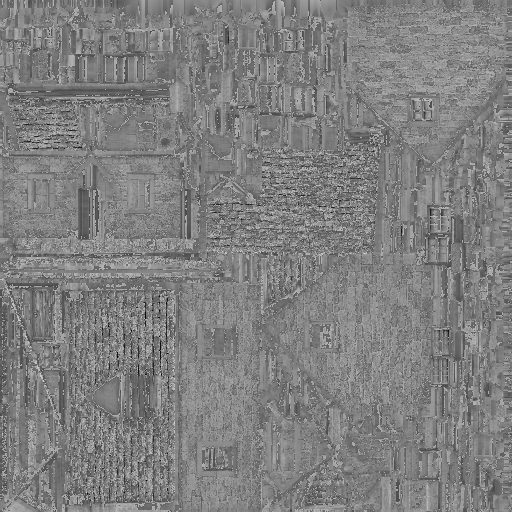
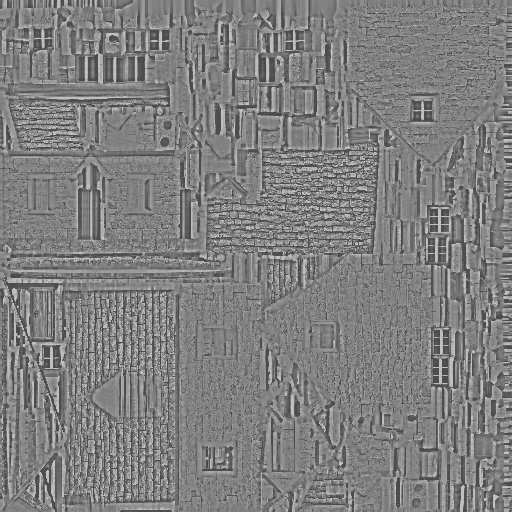
feat(look): the houses turned and clustered, the paving's level of detail, the windmill cleaner
The houses each a quarter turn of its own and a little more, an
irregular cluster of six in the village, their paved yards at least
4 m apart (PAVE_GAP: the cover's authoring checks it, pavePoly and
polyGap; test/buildings.test.ts). The paving's cobbles fade out from a
7 cm to a 22 cm pixel footprint into their mean in a soft blotch, no
texture read past it, as the macro bake paints. The buildings' specks
on flat faces near the light's grazing angle: the sun's shadow looked
up 15 cm off the surface, the band edges' grain at a third; the detail
texture over its local mean (a texel's guessed role flipped on the
windmill's tower); the tower's wall warmer, to the reference's ochre.

diff --git a/src/look/world/buildings.ts b/src/look/world/buildings.ts
@@ -1,27 +1,29 @@
 // The demo map's buildings (docs/plans/active/buildings.md): authored, deterministic. Each a model of
 // prototypes/buildings.data.js (tools/building-to-js.py: metres, its base at 0, centred on its footprint), where it
 // stands (x, z), its turn (yaw, rad, Babylon's instance yaw: a local point (x, z) goes to (x cos − z sin, x sin + z cos),
-// measured on the page), its scale. The models' fronts face −z before the turn, so a yaw of −π/2 faces −x: the
-// village's houses face the road west of them
+// measured on the page), its scale. The models' fronts (the house's door) face −z before the turn, so a yaw of −π/2
+// faces −x (the road, west of the village)
 export interface Building { model: 'windmill' | 'house'; x: number; z: number; yaw: number; scale: number }
 // each model's ground footprint before its scale: a circle's radius (the windmill's tower and gallery) or a box's half
 // sizes along its own x and z (the house's walls, its eaves), m: the cover's village ground under it (cover.ts), so
 // nothing grows through a floor
 export const FOOT: Record<Building['model'], { r?: number; hx?: number; hz?: number }> = { windmill: { r: 4.4 }, house: { hx: 5.6, hz: 4.4 } }
-const W = -Math.PI / 2
+const Q = Math.PI / 2   // a quarter turn: 0 the door south (−z), −Q west (to the road), Q east, 2Q north
 export const BUILDINGS: readonly Building[] = [
   // the windmill in the large wheat field's north-east part (cover.ts: rect(50, 48, 45, 28, 0.1)), its sails to the
   // south-west, toward the start view
   { model: 'windmill', x: 78, z: 66, yaw: 0.6, scale: 1 },
-  // the village's houses east of the road (cover.ts, VILLAGE), in three rows along it, each turned a little apart
-  { model: 'house', x: 207, z: -28, yaw: W + 0.12, scale: 1.0 },
-  { model: 'house', x: 206, z: -6, yaw: W - 0.08, scale: 0.92 },
-  { model: 'house', x: 208, z: 15, yaw: W + 0.2, scale: 1.06 },
-  { model: 'house', x: 226, z: -34, yaw: W - 0.18, scale: 0.95 },
-  { model: 'house', x: 227, z: -12, yaw: W + 0.05, scale: 1.08 },
-  { model: 'house', x: 229, z: 9, yaw: W - 0.25, scale: 0.9 },
-  { model: 'house', x: 244, z: -24, yaw: W + 0.26, scale: 1.0 },
+  // the village (cover.ts, VILLAGE): an irregular cluster east of the road, the houses turned each a quarter turn of its
+  // own (two doors to the road, one gable to it, two side-on, one back to it) and a little more, their paved yards at
+  // least PAVE_GAP apart (cover.ts checks it); six fit the village ground with their yards
+  { model: 'house', x: 208, z: -30, yaw: -Q + 0.14, scale: 1.0 },
+  { model: 'house', x: 232, z: -38, yaw: -0.12, scale: 0.95 },
+  { model: 'house', x: 214, z: -6, yaw: 2 * Q + 0.1, scale: 1.04 },
+  { model: 'house', x: 240, z: -12, yaw: Q - 0.18, scale: 0.92 },
+  { model: 'house', x: 212, z: 20, yaw: -Q - 0.2, scale: 1.0 },
+  { model: 'house', x: 240, z: 18, yaw: 2 * Q + 0.16, scale: 1.06 },
 ]
+export const PAVE_GAP = 4   // the least ground between two buildings' paved yards, m
 // whether (x, z) lies on a building's footprint, grown by pad m
 export function onBuilding(x: number, z: number, pad = 0): boolean {
   return BUILDINGS.some(b => {
@@ -54,5 +56,28 @@ export function onPaving(x: number, z: number, pad = 0): boolean {
     const lx = dx * a[2] + dz * a[3], lz = -dx * a[3] + dz * a[2]
     return Math.abs(lx) <= q[0] + pad && lz <= q[1] + pad && lz >= -q[2] - pad
   })
+}
+// a building's paving as a polygon on the ground (a box's four corners, a circle's sixteen points), in its turn
+export function pavePoly(b: Building): [number, number][] {
+  const { a, b: q } = paveShape(b), at = (lx: number, lz: number): [number, number] => [a[0] + lx * a[2] - lz * a[3], a[1] + lx * a[3] + lz * a[2]]
+  if (q[0] < 0) return Array.from({ length: 16 }, (_, k) => at(Math.cos(k * Math.PI / 8) * -q[0], Math.sin(k * Math.PI / 8) * -q[0]))
+  return [at(-q[0], -q[2]), at(q[0], -q[2]), at(q[0], q[1]), at(-q[0], q[1])]
+}
+// the gap between two convex polygons, m: 0 where they overlap (a point of one in the other), else the least distance
+// between their edges
+export function polyGap(p: [number, number][], q: [number, number][]): number {
+  const inside = (pt: [number, number], poly: [number, number][]) => poly.every((v, i) => { const w = poly[(i + 1) % poly.length]; return (w[0] - v[0]) * (pt[1] - v[1]) - (w[1] - v[1]) * (pt[0] - v[0]) >= 0 })
+    || poly.every((v, i) => { const w = poly[(i + 1) % poly.length]; return (w[0] - v[0]) * (pt[1] - v[1]) - (w[1] - v[1]) * (pt[0] - v[0]) <= 0 })
+  if (p.some(v => inside(v, q)) || q.some(v => inside(v, p))) return 0
+  // (two boxes crossing as a plus: no corner of one in the other, but their edges cross)
+  const side = (a: [number, number], b: [number, number], c: [number, number]) => Math.sign((b[0] - a[0]) * (c[1] - a[1]) - (b[1] - a[1]) * (c[0] - a[0]))
+  for (let i = 0; i < p.length; i++) for (let j = 0; j < q.length; j++) {
+    const a = p[i], b = p[(i + 1) % p.length], c = q[j], e = q[(j + 1) % q.length]
+    if (side(a, b, c) !== side(a, b, e) && side(c, e, a) !== side(c, e, b)) return 0
+  }
+  const segPt = (x: number, z: number, a: [number, number], b: [number, number]) => { const dx = b[0] - a[0], dz = b[1] - a[1], t = Math.max(0, Math.min(1, ((x - a[0]) * dx + (z - a[1]) * dz) / (dx * dx + dz * dz))); return Math.hypot(x - a[0] - t * dx, z - a[1] - t * dz) }
+  let d = Infinity
+  for (const [P, Q] of [[p, q], [q, p]]) for (const v of P) for (let i = 0; i < Q.length; i++) d = Math.min(d, segPt(v[0], v[1], Q[i], Q[(i + 1) % Q.length]))
+  return d
 }
 

diff --git a/src/look/world/cover.ts b/src/look/world/cover.ts
@@ -11,7 +11,7 @@
 import { hash, sstep, vn } from '../noise.ts'
 import { axisX } from './author.ts'
 import { RIVER } from '../river.ts'
-import { BUILDINGS, PAVE_WOBBLE, onPaving, paveShape } from './buildings.ts'
+import { BUILDINGS, PAVE_GAP, PAVE_WOBBLE, onPaving, paveShape, pavePoly, polyGap } from './buildings.ts'
 
 export const COVER = { meadow: 0, pasture: 1, wood: 2, road: 3, track: 4, village: 5, wheat: 6, green: 7, stubble: 8, ploughed: 9, bare: 10 } as const
 export type CoverClass = typeof COVER[keyof typeof COVER]
@@ -143,7 +143,13 @@ export function authorCover(far: number, cell: number): CoverGrid {
   const n = Math.round(far / cell), x0 = -far / 2, z0 = -far / 2, tex = new Uint8Array(n * n * 4)
   for (const f of FIELDS) for (const [x, z] of f.poly) if (onFloodplain(x, z)) throw new Error(`cover: field corner ${x.toFixed(0)},${z.toFixed(0)} on the floodplain`)
   for (const [x, z] of VILLAGE) if (inFormationZone(x, z) || onFloodplain(x, z)) throw new Error('cover: the village is in a formation zone or on the floodplain')
-  // the buildings (world/buildings.ts): none in a formation zone, on the floodplain, or on a road or a track
+  // the buildings (world/buildings.ts): their paved yards at least PAVE_GAP apart; none in a formation zone, on the
+  // floodplain, or on a road or a track
+  const yards = BUILDINGS.map(pavePoly)
+  for (let i = 0; i < yards.length; i++) for (let j = i + 1; j < yards.length; j++) {
+    const g = polyGap(yards[i], yards[j])
+    if (g < PAVE_GAP) throw new Error(`cover: the yards of the buildings at ${BUILDINGS[i].x}, ${BUILDINGS[i].z} and ${BUILDINGS[j].x}, ${BUILDINGS[j].z} are ${g.toFixed(1)} m apart (at least ${PAVE_GAP})`)
+  }
   for (const b of BUILDINGS) {
     // (its paving's farthest reach and its wobble)
     const q = paveShape(b).b, r = (q[0] < 0 ? -q[0] : Math.hypot(q[0], Math.max(q[1], q[2]))) + PAVE_WOBBLE

diff --git a/test/buildings.test.ts b/test/buildings.test.ts
@@ -1,0 +1,20 @@
+// The buildings' placement (docs/plans/active/buildings.md): the gap between two paved yards (convex polygons) is 0
+// where they overlap or cross and the edges' least distance otherwise, and the authored buildings' yards keep at least
+// PAVE_GAP apart (the cover's authoring fails otherwise: src/look/world/cover.ts)
+import { describe, expect, it } from 'vitest'
+import { BUILDINGS, PAVE_GAP, pavePoly, polyGap } from '../src/look/world/buildings.ts'
+
+const box = (x: number, z: number, hx: number, hz: number): [number, number][] => [[x - hx, z - hz], [x + hx, z - hz], [x + hx, z + hz], [x - hx, z + hz]]
+
+describe('the yards', () => {
+  it('measures the gap between two yards', () => {
+    expect(polyGap(box(0, 0, 2, 2), box(1, 1, 2, 2))).toBe(0)        // a corner of one in the other
+    expect(polyGap(box(0, 0, 5, 1), box(0, 0, 1, 5))).toBe(0)        // crossing as a plus: no corner in the other
+    expect(polyGap(box(0, 0, 2, 2), box(10, 0, 2, 2))).toBeCloseTo(6)
+    expect(polyGap(box(0, 0, 2, 2), box(5, 5, 1, 1))).toBeCloseTo(Math.hypot(2, 2))
+  })
+  it('keeps the authored yards apart', () => {
+    const p = BUILDINGS.map(pavePoly)
+    for (let i = 0; i < p.length; i++) for (let j = i + 1; j < p.length; j++) expect(polyGap(p[i], p[j])).toBeGreaterThanOrEqual(PAVE_GAP)
+  })
+})

diff --git a/src/look/buildings.ts b/src/look/buildings.ts
@@ -25,7 +25,7 @@ declare global { interface Window { BUILDINGS?: Record<string, BuildingModel> } 
 // against the armies (readable first: the guard): the windmill's warm ochre stone and red cap, the cottages' pale
 // limestone and blue-grey slate, timber a dark brown, the openings near black, the chimney pots terracotta
 const PALETTE: Record<Building['model'], { wall: string; roof: string; timber: string; opening: string; accent: string; detail: string }> = {
-  windmill: { wall: '#b8915e', roof: '#9a4a32', timber: '#5e4330', opening: '#1f1a17', accent: '#9a4a32', detail: WINDMILL_DETAIL },
+  windmill: { wall: '#bd8247', roof: '#9a4a32', timber: '#5e4330', opening: '#1f1a17', accent: '#9a4a32', detail: WINDMILL_DETAIL },
   house: { wall: '#cbbfa6', roof: '#5d636b', timber: '#64472f', opening: '#1c1c1e', accent: '#a5643f', detail: HOUSE_DETAIL },
 }
 const DETAIL_AMT = 0.35   // how much of the texture's value shows (the paint's grain is on top)

diff --git a/tools/building-to-js.py b/tools/building-to-js.py
@@ -4,7 +4,7 @@
 # data/buildings/<model>-detail.png. Pack colours are never used (AGENTS.md): each face takes a role (wall, roof,
 # timber, opening, accent) by the median colour of the texels under it, nearest in Lab to the model's reference colours
 # (MODELS, below); the page paints each role from the palette. The detail keeps the texture's value only, each texel
-# divided by its role's mean value (so it varies about 1 within a role), stored as 128 = 1.
+# over its neighbourhood's mean (so it varies about 1: the fine courses and slates), stored as 128 = 1.
 #
 # Usage (from rts/; the zips are the owner's, in the git-ignored assets/buildings):
 #   blender -b --python tools/building-to-js.py -- windmill assets/buildings/windmill.zip
@@ -36,6 +36,7 @@ MODELS = {
 # 'up': per role the range of a face's normal's upward component it may take (a roof faces up, a wall stands): the
 # colours alone do not split a shaded wall from a slate or a lit beam from a wall stone; 'zr': the range of a face's
 # height, as a share of the model's, a role may take (the house's terracotta chimney pots: its frames are timber)
+DETAIL_BOX, DETAIL_CLIP = 4, (0.6, 1.5)   # the detail's local mean: a 9-texel box at 512²; its range
 REPO = os.path.abspath(os.path.join(os.path.dirname(__file__), '..'))
 
 def srgb_to_lab(c):   # c: (..., 3) in 0..1
@@ -124,11 +125,14 @@ def main():
     p3 = np.array(pos).reshape(-1, 3)
     data = {'pos': pos, 'nrm': nrm, 'uv': uvs, 'role': rol, 'idx': idx, 'min': p3.min(0).round(3).tolist(), 'max': p3.max(0).round(3).tolist()}
     print(name, 'verts', len(rol), 'tris', len(idx) // 3, 'size m', (p3.max(0) - p3.min(0)).round(2).tolist())
-    # the detail: the texture's value, each texel over its role's mean value (the texel's role by the same rule)
+    # the detail: the texture's value over its local mean (a box of DETAIL_BOX texels round it), so only the fine
+    # value (stone courses, slates, planks) is kept, whatever the region: a texel's role guessed by its colour flipped
+    # between neighbours on the windmill's brown tower (mortar read as timber) and blotched it. Clipped to DETAIL_CLIP
     st = max(1, w // 512); small = px[::st, ::st]; sh_, sw_ = small.shape[:2]   # (512² is enough for a value detail)
-    tr = classify(small.reshape(-1, 3).astype(np.float64), cfg['refs']).reshape(sh_, sw_)
-    val = small @ np.array([0.2126, 0.7152, 0.0722]); det = np.ones_like(val)
-    for r in np.unique(tr): m_ = val[tr == r].mean(); det[tr == r] = val[tr == r] / max(m_, 1e-3)
+    val = small @ np.array([0.2126, 0.7152, 0.0722])
+    k_ = DETAIL_BOX; pad = np.pad(val, k_, mode='edge'); c_ = pad.cumsum(0).cumsum(1); c_ = np.pad(c_, ((1, 0), (1, 0)))
+    n_ = 2 * k_ + 1; loc = (c_[n_:, n_:] - c_[:-n_, n_:] - c_[n_:, :-n_] + c_[:-n_, :-n_]) / (n_ * n_)
+    det = np.clip(val / np.maximum(loc, 1e-3), *DETAIL_CLIP)
     det8 = np.clip(det * 128, 0, 255).astype(np.uint8)
     out_dir = os.path.join(REPO, 'data', 'buildings'); os.makedirs(out_dir, exist_ok=True)
     im = bpy.data.images.new(name + '-detail', sw_, sh_, alpha=False); g = det8.astype(np.float32) / 255

diff --git a/docs/plans/active/buildings.md b/docs/plans/active/buildings.md
@@ -50,7 +50,8 @@ things get runtime light); the colour by palette roles with the texture's value 
   grows to the paving's reach, so the road split's live material carries it and the rest of the ground pays nothing.
   Tiled at 4.5 m (stones about 15 cm), mipmapped, read with explicit gradients; its colours kept at 0.8 of their spread
   round the mean; the season, snow and light the ground's. The macro bake paints the cobbles' mean (at 0.5 m texels
-  the stones average to it).
+  the stones average to it). Its level of detail as the roads': the cobbles fade out from a 7 cm to a 22 cm pixel
+  footprint into their mean in a soft blotch (no texture read past it), the bake's look, so the swap is seamless.
 
 ## Acceptance
 
@@ -76,5 +77,14 @@ things get runtime light); the colour by palette roles with the texture's value 
 - The instance yaw measured on the page: a local point (x, z) goes to (x cos − z sin, x sin + z cos) (a yaw of π/2
   turned the houses' fronts east: fixed to −π/2).
 - The paving built (2026-10-20): `pavePaint`, the cover's footprints grown to the yards (`onPaving`).
+- The owner's second round (2026-10-20): the houses each a quarter turn of its own (doors to the road, gable to it,
+  side-on, back to it) and a little more, in an irregular cluster; six fit the village ground with their yards at
+  least 4 m apart (`PAVE_GAP`, checked by the cover's authoring and `test/buildings.test.ts`). The paving's level of
+  detail as the roads': the cobbles fade out from a 7 cm to a 22 cm pixel footprint into their mean in a soft blotch,
+  no texture read past it; the macro bake paints the same. The windmill's specks (its tower, the slates too): the sun's
+  shadow on the surface itself near the light's grazing angle and the grain at the ground's strength on flat faces:
+  the shadow looked up 15 cm off the surface, the band edges' grain at a third; the detail texture over its local mean
+  (a texel's guessed role flipped on the brown tower); the tower's wall warmer, to the reference's ochre. Left: the
+  sails' cast shadow steps across the tower at the shadow map's resolution.
 - To do: the owner's look; the bench against main; the guard and the checks.
 

diff --git a/docs/systems/look.md b/docs/systems/look.md
@@ -372,7 +372,12 @@ Each stands in a paved yard (`pavePaint` in `shore.glsl`, in `roadPaint`'s path)
 (`data/paving-v1.png`, 4.5 m a repeat) over its footprint grown by a margin (the house's wider at its door, toward the
 road; the windmill's a ring), the exact shapes as uniform arrays (`paveShape`, ≤ 16), the edge ragged by a noise-wobbled
 distance; read only where the cover paints the village's ground worn to nothing, which the buildings' cover reaches
-(so only the road split's live material carries it); the macro bake paints the cobbles' mean.
+(so only the road split's live material carries it); the macro bake paints the cobbles' mean. Its level of detail as the roads': the cobbles fade out from a 7 cm to a
+22 cm pixel footprint into their mean in a soft blotch over a few metres (no texture read past it), what the macro bake
+paints too. The houses each turn a quarter turn of their own, their yards (on the door's side) at least `PAVE_GAP`
+apart (the cover's authoring checks it). The detail texture is the texture's value over its local mean; the buildings
+look the sun's shadow up 15 cm off their surface and break their band edges with a third of the ground's grain (on
+flat faces the full grain and the shadow's self-test made specks).
 
 ### The shadows' look
 
